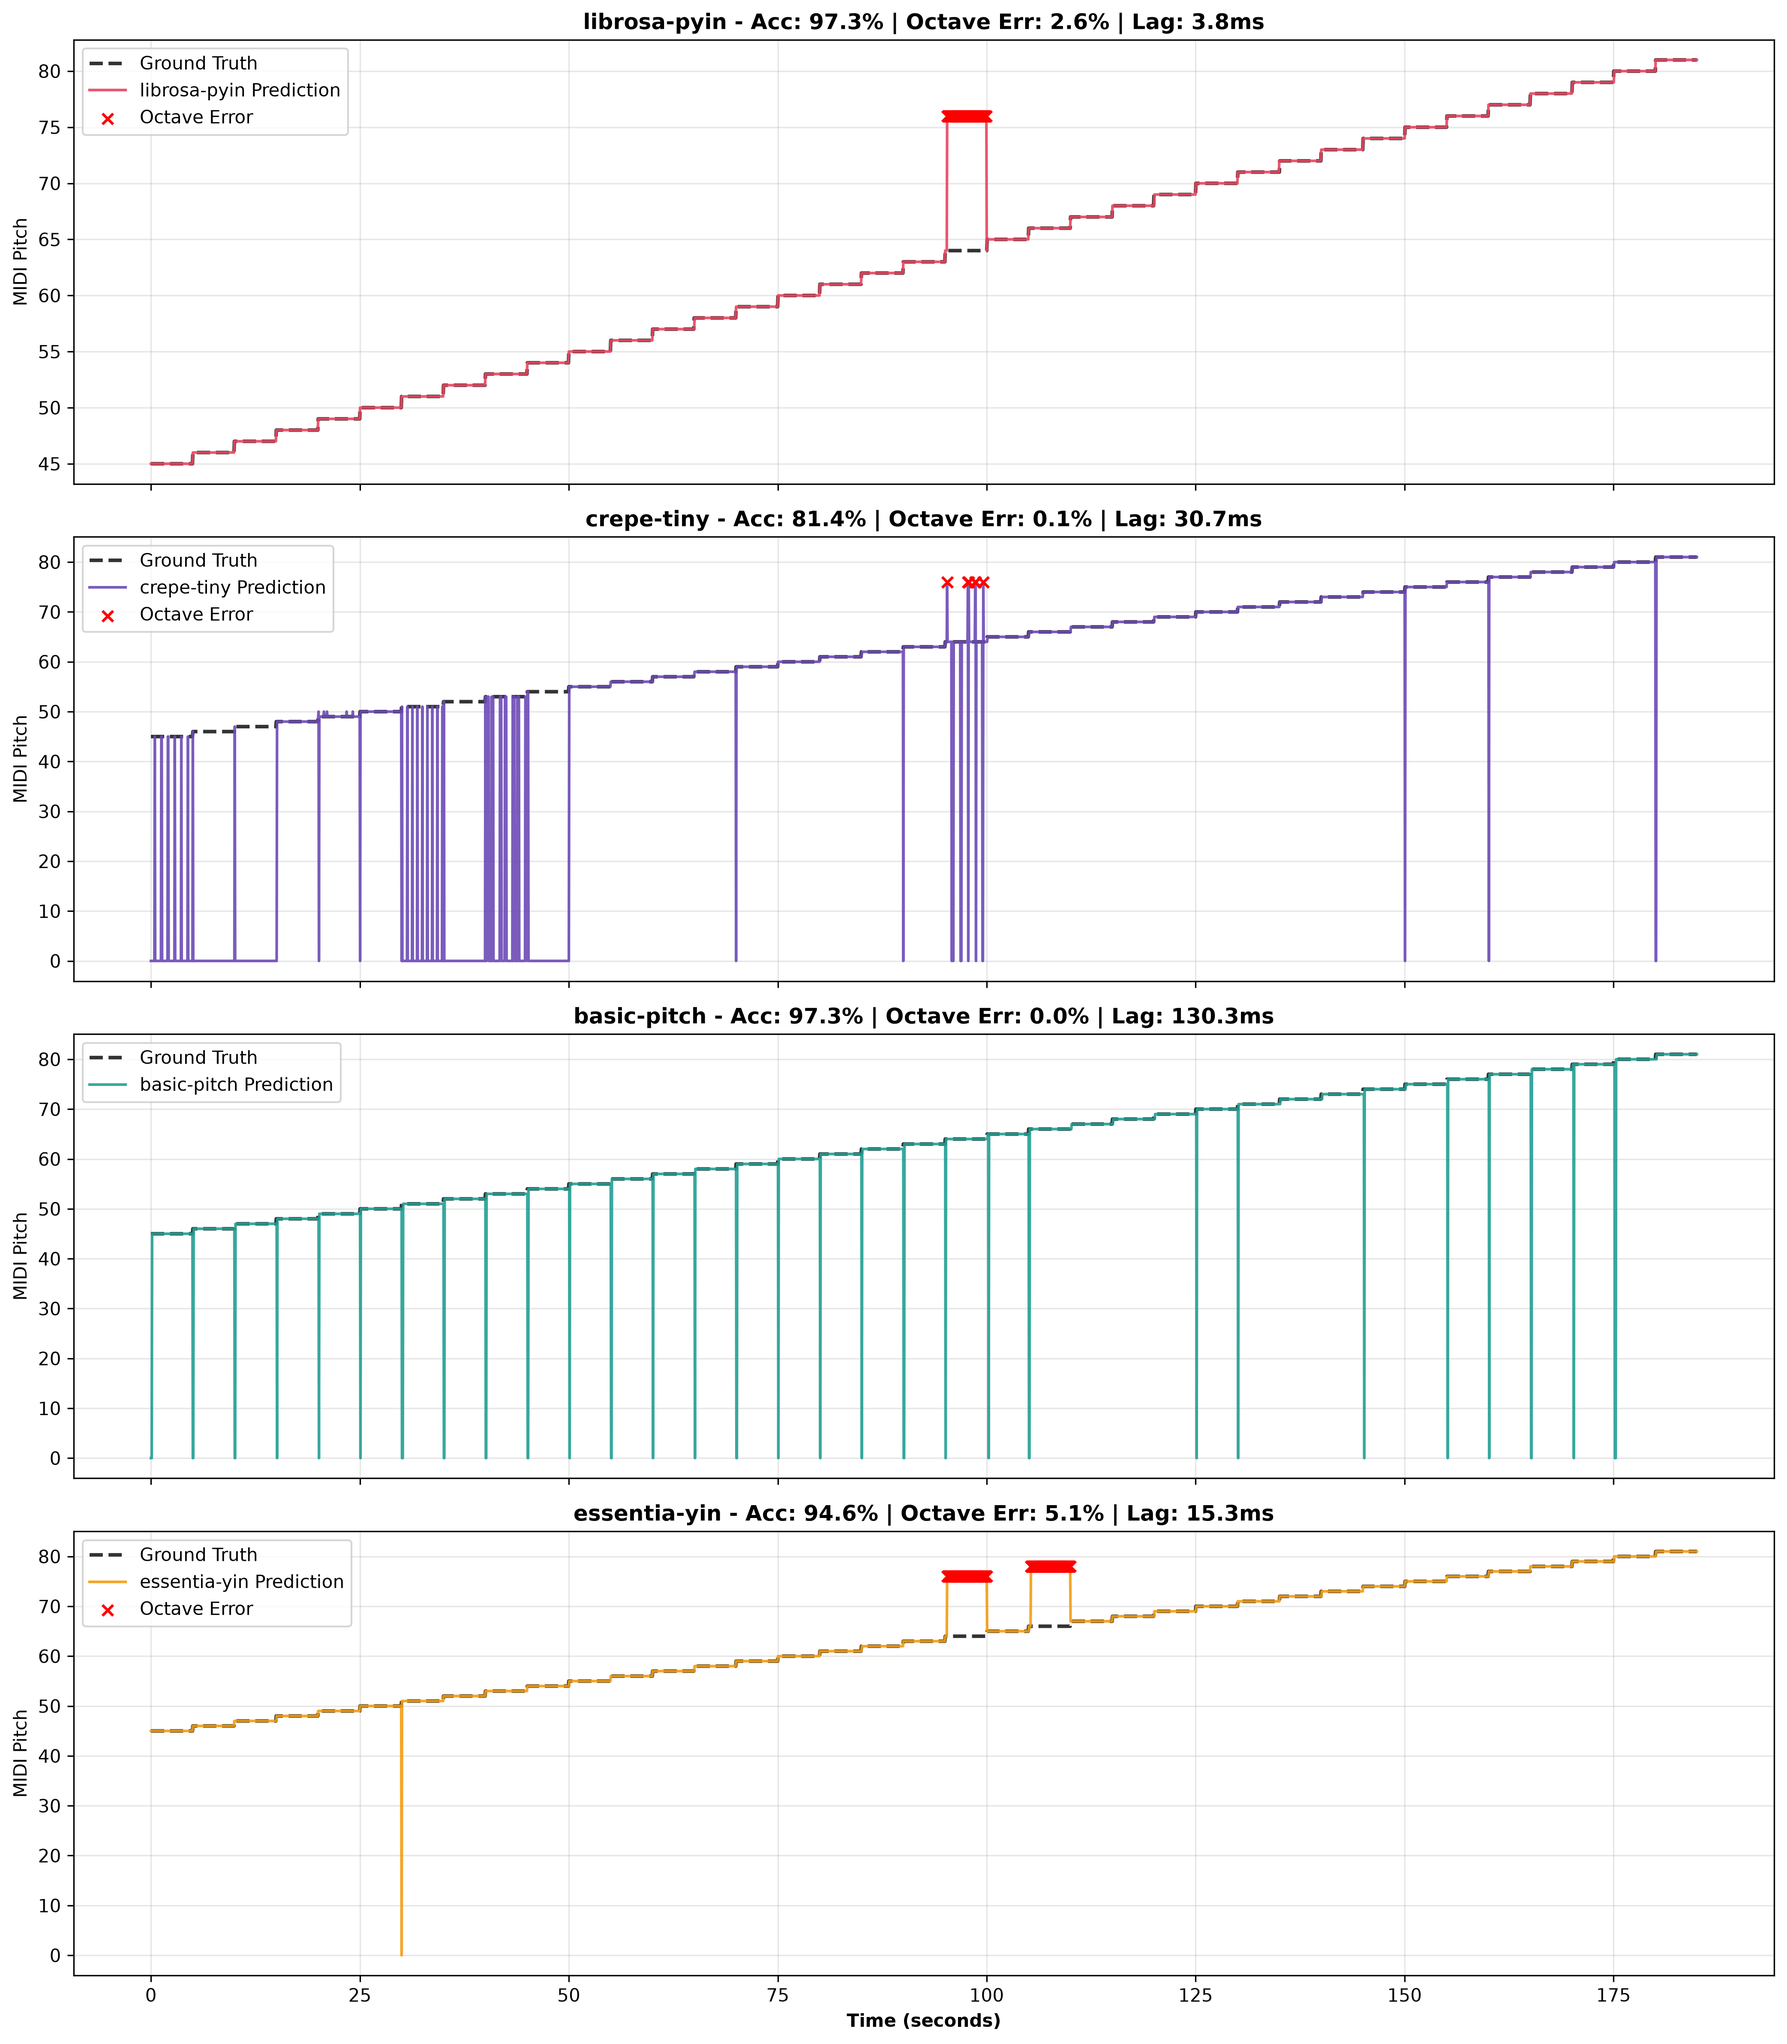
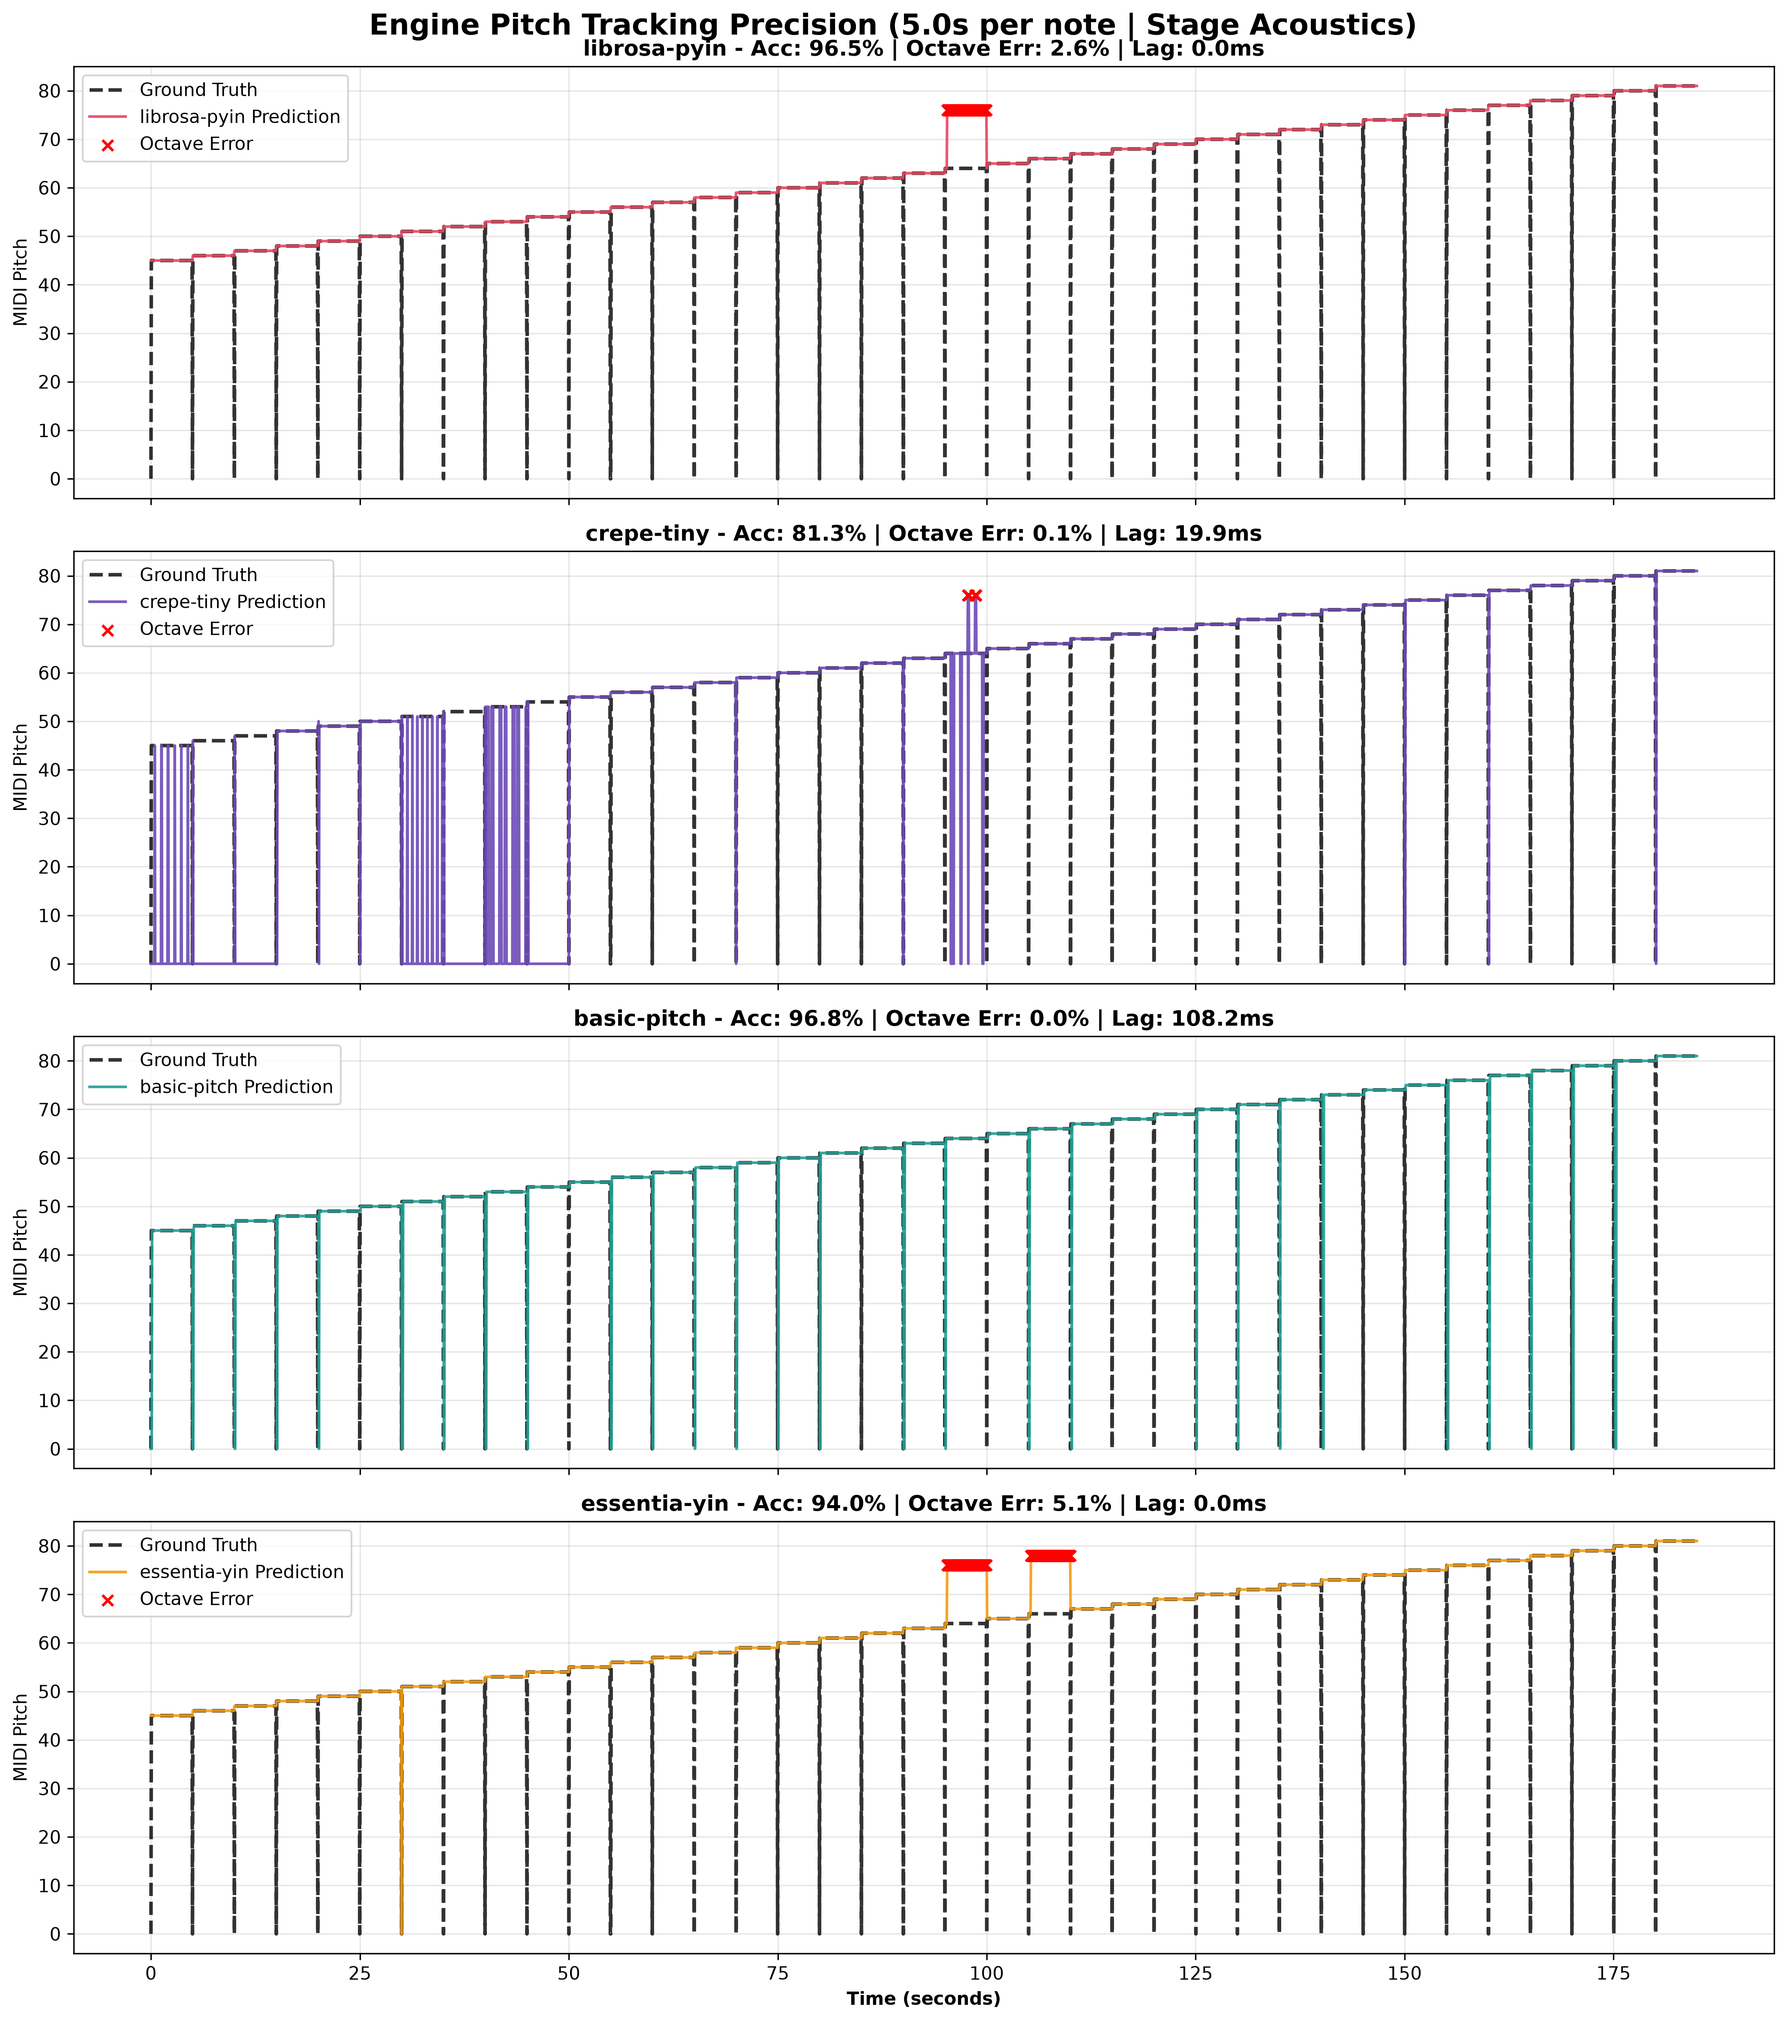
fix(benchmark): correct Ground Truth array logic for ADSR micro-rests

diff --git a/scripts/benchmark_temporal_precision.py b/scripts/benchmark_temporal_precision.py
@@ -37,6 +37,7 @@ def apply_stage_acoustics(audio: np.ndarray, sr: int) -> np.ndarray:
 
 
 def generate_chromatic_scale(start_midi: int = 45, end_midi: int = 81, duration_sec: float = 0.5, sr: int = 44100, apply_acoustics: bool = True) -> tuple[np.ndarray, list[int]]:
+    """Generates a chromatic scale with 5ms ADSR envelopes to measure temporal cutoffs."""
     notes_count = (end_midi - start_midi) + 1
     samples_per_note = int(duration_sec * sr)
     total_samples = notes_count * samples_per_note
@@ -63,7 +64,12 @@ def generate_chromatic_scale(start_midi: int = 45, end_midi: int = 81, duration_
         envelope[-fade_samples:] = np.linspace(1, 0, fade_samples)
         
         audio[start_idx:end_idx] = tone * envelope
-        ground_truth.extend([current_midi] * samples_per_note)
+        
+        # CORRECTED GROUND TRUTH: Assign 0 (silence) during the 5ms ADSR fade windows
+        gt_note = np.full(samples_per_note, current_midi)
+        gt_note[:fade_samples] = 0
+        gt_note[-fade_samples:] = 0
+        ground_truth.extend(gt_note.tolist())
         
     final_audio = apply_stage_acoustics(audio, sr) if apply_acoustics else audio
     return final_audio, ground_truth
@@ -105,7 +111,10 @@ def run_temporal_benchmark(note_duration_sec: float, buffer_size_ms: int = 46, a
             pred_pitch = int(pred) if pred is not None else 0
             
             gt_buffer = ground_truth[i : i + hop_length]
-            gt_pitch = max(set(gt_buffer), key=gt_buffer.count)
+            if gt_buffer.count(0) > (len(gt_buffer) * 0.10):
+                gt_pitch = 0
+            else:
+                gt_pitch = max(set(gt_buffer), key=gt_buffer.count)
             
             predicted_track.append(pred_pitch)
             ground_truth_track.append(gt_pitch)

diff --git a/scripts/benchmark_dsp_analysis.py b/scripts/benchmark_dsp_analysis.py
@@ -65,7 +65,12 @@ def generate_chromatic_scale(start_midi: int = 45, end_midi: int = 81, duration_
         envelope[-fade_samples:] = np.linspace(1, 0, fade_samples)
         
         audio[start_idx:end_idx] = tone * envelope
-        ground_truth.extend([current_midi] * samples_per_note)
+        
+        # CORRECTED GROUND TRUTH: Assign 0 (silence) during the 5ms ADSR fade windows
+        gt_note = np.full(samples_per_note, current_midi)
+        gt_note[:fade_samples] = 0
+        gt_note[-fade_samples:] = 0
+        ground_truth.extend(gt_note.tolist())
         
     final_audio = apply_stage_acoustics(audio, sr) if apply_acoustics else audio
     return final_audio, ground_truth
@@ -147,7 +152,10 @@ def run_dsp_benchmark(note_duration_sec: float, buffer_size_ms: int = 46, apply_
             pred_pitch = int(pred) if pred is not None else 0
             
             gt_buffer = ground_truth[i : i + hop_length]
-            gt_pitch = max(set(gt_buffer), key=gt_buffer.count)
+            if gt_buffer.count(0) > (len(gt_buffer) * 0.10):
+                gt_pitch = 0
+            else:
+                gt_pitch = max(set(gt_buffer), key=gt_buffer.count)
             
             predicted_track.append(pred_pitch)
             ground_truth_track.append(gt_pitch)

diff --git a/README.md b/README.md
@@ -34,25 +34,27 @@ To measure real-world reliability, engines were subjected to a 5-second per note
 **Table 1: Clean Audio Simulation**
 | Engine | Accuracy (%) | Octave Errors (%) | Missed Voicing (%) | False Alarms (%) | Lag (ms) |
 |---|---|---|---|---|---|
-| **librosa-pyin** | 99.93 | 0.00 | 0.00 | 0.00 | 0.0 |
-| **essentia-yin** | 99.78 | 0.02 | 0.00 | 0.00 | 11.5 |
-| **basic-pitch** | 97.19 | 0.00 | 2.39 | 0.00 | 132.9 |
-| **crepe-tiny** | 91.00 | 0.00 | 8.45 | 0.00 | 43.4 |
+| **librosa-pyin** | 99.06 | 0.00 | 0.00 | 0.94 | 0.0 |
+| **essentia-yin** | 99.06 | 0.00 | 0.00 | 0.94 | 0.0 |
+| **basic-pitch** | 96.87 | 0.00 | 2.29 | 0.85 | 106.9 |
+| **crepe-tiny** | 90.58 | 0.00 | 8.23 | 0.72 | 51.0 |
 
-![DSP Benchmark Clean](assets/dsp_benchmark_clean.png)
+![DSP Benchmark Clean](assets/dsp_benchmark_clean.jpg)
 
 **Table 2: Live Stage Acoustics Simulation**
 | Engine | Accuracy (%) | Octave Errors (%) | Missed Voicing (%) | False Alarms (%) | Lag (ms) |
 |---|---|---|---|---|---|
-| **basic-pitch** | 97.34 | 0.00 | 1.14 | 0.00 | 130.3 |
-| **librosa-pyin** | 97.34 | 2.56 | 0.00 | 0.00 | 3.8 |
-| **essentia-yin** | 94.55 | 5.15 | 0.02 | 0.00 | 15.3 |
-| **crepe-tiny** | 81.35 | 0.15 | 18.10 | 0.00 | 30.7 |
+| **basic-pitch** | 96.79 | 0.00 | 1.17 | 0.92 | 108.2 |
+| **librosa-pyin** | 96.49 | 2.56 | 0.00 | 0.94 | 0.0 |
+| **essentia-yin** | 93.96 | 5.12 | 0.00 | 0.92 | 0.0 |
+| **crepe-tiny** | 81.28 | 0.12 | 17.88 | 0.67 | 19.9 |
 
-![DSP Benchmark Acoustic](assets/dsp_benchmark_acoustic.png)
-*Figure 2: Performance degradation under stage acoustics. While `essentia-yin` and `librosa-pyin` suffer from mathematically induced octave errors (Red 'x') when confronted with harmonic resonance, the neural engine `basic-pitch` maintains perfect octave stability at the cost of a higher transition latency (130.3 ms).*
+![DSP Benchmark Acoustic](assets/dsp_benchmark_acoustic.jpg)
+*Figure 2: Performance degradation under stage acoustics. While `essentia-yin` and `librosa-pyin` suffer from mathematically induced octave errors (Red 'x') when confronted with harmonic resonance, the neural engine `basic-pitch` maintains perfect octave stability at the cost of a higher transition latency.*
 
-**Note on Temporal Precision & Micro-Rests:** The brief drops to zero (silence) visible between chromatic steps in the plots are not engine failures. To prevent digital audio clipping during instantaneous pitch transitions, the benchmark applies a 5ms ADSR fade-in/fade-out envelope to the generated waveforms. Engines like `basic-pitch` and `librosa-pyin` demonstrate such extreme temporal resolution that they accurately detect these millisecond amplitude drops as momentary rests.
+**Note on Temporal Precision & Ground Truth Accuracy:** To prevent digital audio clipping during instantaneous pitch transitions, the benchmark applies a 5ms ADSR fade-in/fade-out envelope to the edges of every note. The Ground Truth array strictly models these 5ms windows as genuine silences (MIDI 0). 
+
+Consequently, neural engines like `basic-pitch` possess the temporal resolution to detect these millisecond drops. In contrast, acoustic engines that rely on Viterbi decoding or temporal smoothing (like `librosa-pyin`) often gloss over these micro-rests, artificially bridging the gap and incurring accuracy penalties (False Alarms) for hallucinating a note where silence physically exists.
 
 ### Phase 2: Persistent Corpus & LBDM Segmentation
 
